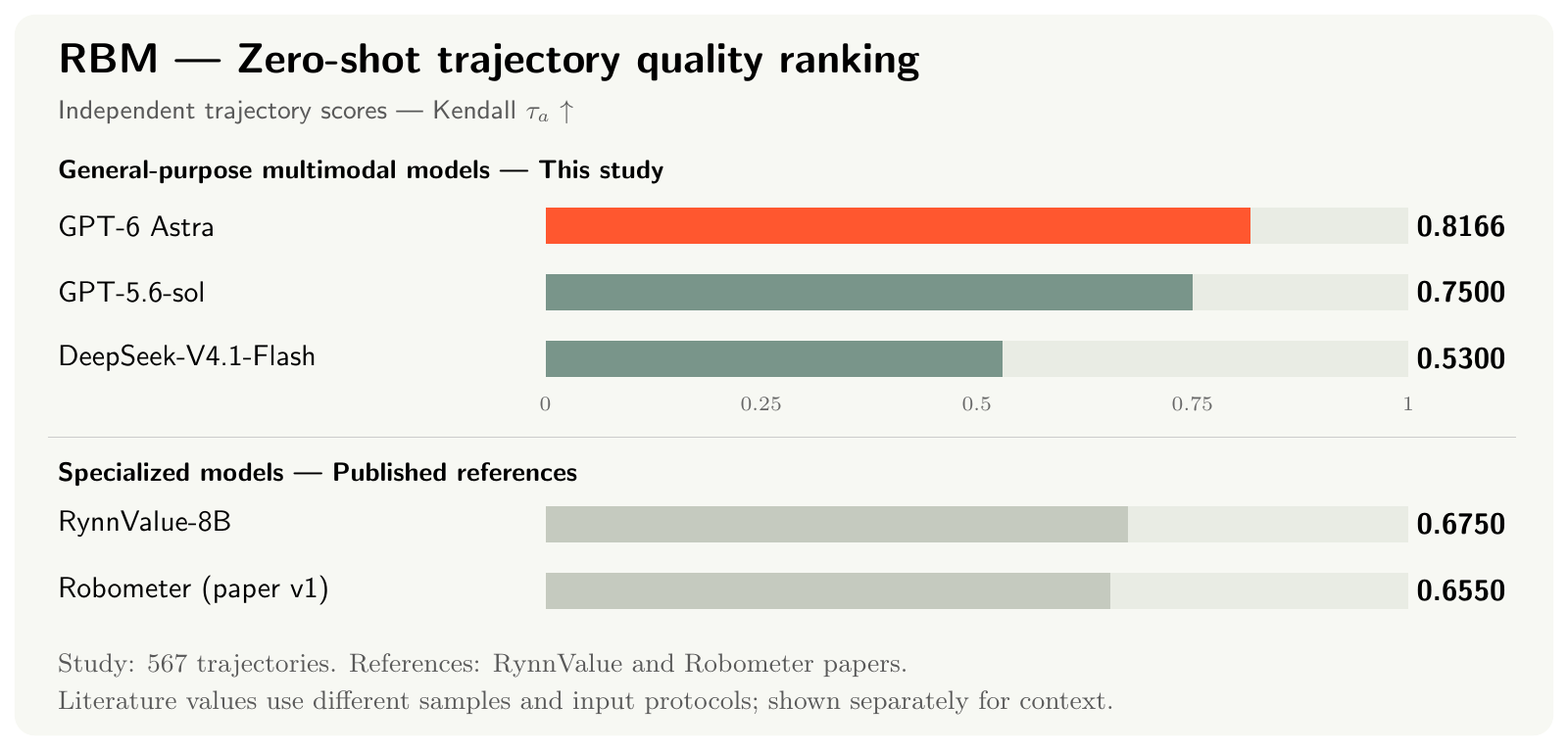
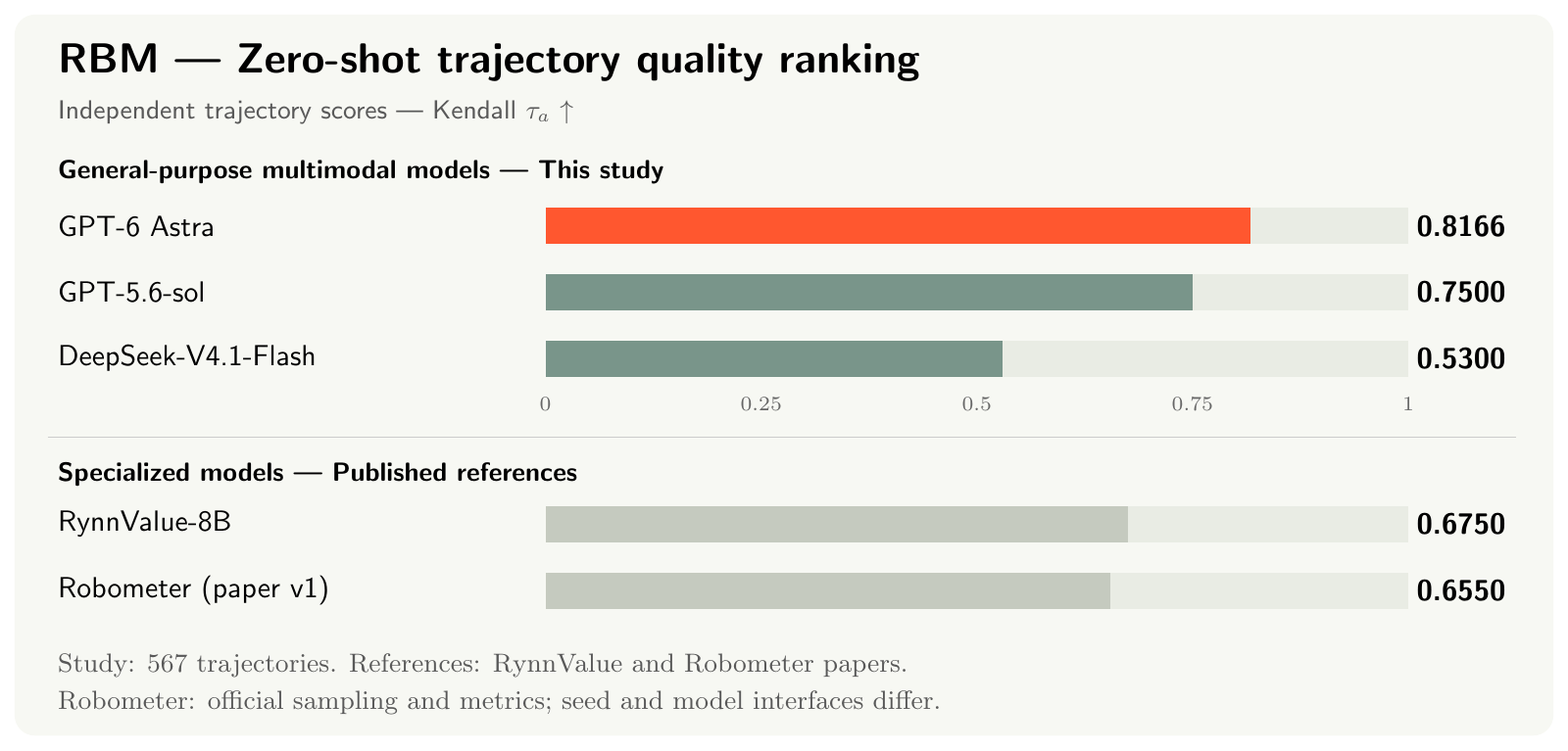
Clarify rubric-based evaluation and correct official protocol alignment

Changed region(s): [[0.0312, 0.8996, 0.7188, 0.9596]]

diff --git a/en.html b/en.html
@@ -232,7 +232,7 @@
 <p class="">
 <strong>Observation masking.</strong> On two existing RoboFail cases, we separately explore three visibility levels and two prompting conditions, making 12 new requests with one response per condition. We retain the original question and mask later observations. Partial inputs have no corresponding temporal ground truth and receive no accuracy score. This supplement is separate from the original 57-question evaluation and examines response sensitivity to visible information.</p>
 <p class="">
-<strong>Comparison scope.</strong> We distinguish directly evaluated configurations from published results. Literature values from Robometer, RynnValue, AHA, and other methods were not rerun on our samples and inputs; training, prompts, and aggregation may also differ. They provide context rather than a matched-protocol ranking. Chart tags [S], [P], [W], [R], and [A] denote this study, the Robometer paper, its website, RynnValue, and AHA, respectively. Versions and missing results are retained as recorded.</p>
+<strong>Result sources.</strong> Chart tags [S], [P], [W], [R], and [A] denote this study, the Robometer paper, its project website, RynnValue, and AHA. RBM ranking and different-quality preference follow official sampling and metric rules; Section 2.1.3 records seeds, model interfaces, and cited versions. RoboFail literature comparisons use different question sets, as described in Section 2.4.</p>
 <div id="positive-case-protocol">
 <p class="">
 <strong>Case comparisons.</strong> The four positive examples are selected post hoc for illustration, not to estimate overall error rates. Astra and DeepSeek receive identical tasks, trajectories, prompts, and input images without reference quality labels; preference cases retain the actual A/B order. Reasoning settings and compute budgets are unmatched: Astra uses low effort with a 512-token output limit, while DeepSeek uses max effort with a 32768-token limit. No swapped-order repeat or matched per-example Robometer output is available.</p>
@@ -321,7 +321,7 @@
 <button type="button" data-zoom aria-label="Zero-shot ranking of three general-purpose multimodal models and published specialized-model references">
 <img loading="lazy" src="assets/figures/01_ranking_zero_shot.png" alt="Zero-shot ranking of three general-purpose multimodal models and published specialized-model references" width="1600" height="767">
 </button>
-<figcaption>Figure 1. Zero-shot trajectory quality ranking. Top: three general-purpose multimodal models evaluated in this study. Bottom: published reference values for two specialized models. Higher Kendall τa is better; literature results retain their own protocols.<span class="zoom-label" aria-hidden="true">Enlarge ↗</span>
+<figcaption>Figure 1. Zero-shot trajectory quality ranking. Top: three general-purpose multimodal models evaluated in this study. Bottom: published reference values for two specialized models. Higher Kendall τa is better; published values follow the cited versions.<span class="zoom-label" aria-hidden="true">Enlarge ↗</span>
 </figcaption>
 </figure>
 <p>The following positive examples and error analyses examine how the models judge execution quality.</p>
@@ -637,9 +637,12 @@
 </details>
 </div>
 <!-- /positive-case -->
-<p>The next three choices disagree with the reference. To interpret them, we first need to ask: by what criteria should the model judge one execution to be better?</p>
-<h5 class="case-title">Astra–reference preference disagreements: a task goal is not a complete evaluation criterion</h5>
-<p>“Separate two cups” and “open the bin” specify goals without fully defining completion or how to compare executions. Whether an object must be released, whether it must remain upright, and how opening width should be weighed against final stability all involve evaluative priorities. Even agreement about the visual facts can yield different preferences under different criteria. Cup-separation and green-bin disagreements therefore do not directly establish deficient ranking ability in Astra; they also concern whether its evaluation criteria match the reference annotations. This is an issue of criteria underspecified by the task description, not verified disagreement among human annotators. State-recognition questions, such as whether a zipper is open, must be distinguished from these evaluative choices.</p>
+<p>The following cases examine the evidence and evaluation criteria underlying Astra’s disagreements with reference preferences.</p>
+<h5 class="case-title">Astra–reference preference disagreements: multidimensional evaluation and criterion alignment</h5>
+<p>Task descriptions usually specify a goal without fully defining execution quality. The cup-separation and green-bin disagreements involve several dimensions: whether the target state is reached, whether the object is released, whether the final state is stable, and how these requirements are prioritized. A single success label or overall preference compresses these dimensions into one judgment, making it difficult to distinguish disagreements about visual recognition, completion conditions, and trade-offs among quality dimensions. Such reference disagreements therefore do not directly establish deficient ranking ability in Astra.</p>
+<p>A more informative analysis would specify task-relevant criteria, annotate the observable evidence and degree of satisfaction for each, and then form an overall judgment using predefined requirements or weights. Cup separation could be assessed through “separated,” “released,” and “upright”; bin opening through “required opening reached” and “remains open without support.” This criterion-based assessment follows the idea of rubric rewards; Flora-Rewarder already provides an interface that outputs a score for each rubric step<sup class="citation">
+<a href="#ref-flora" aria-label="NVIDIA Flora-Rewarder">[14]</a>
+</sup>. It makes the basis of evaluation explicit, while the criteria and weights still depend on task requirements. We have not performed such criterion-level reannotation in this study.</p>
 <h5 class="case-title" id="separate-cups-case">Case Study: release or tipping when separating cups</h5>
 <p>In the task of separating the purple and red cups, Astra describes both executions as creating a large gap. One does not show release in the final frame and is labeled successful. The other clearly releases the purple cup, but the cup tips onto its side, and is labeled failed. Astra chooses the latter and explicitly mentions both release and tipping in its reason.</p>
 <div class="case-video-grid case-replay-grid" role="group" aria-labelledby="separate-cups-case" aria-describedby="separate-cups-case-note">
@@ -727,19 +730,17 @@
 </details>
 <h4 id="literature" data-toc>2.1.3 Comparison with prior work</h4>
 <p class="">
-<strong>Specialized and general-purpose models acquire behavioral evaluation capabilities through different routes.</strong> Robometer<sup class="citation">
+<strong>General-purpose multimodal models show competitive offline evaluation capability relative to specialized models.</strong> Under Robometer’s official sampling and metric rules, Astra achieves zero-shot ranking τa of 0.8166 and preference accuracy of 92.4%, above Robometer’s reported 0.655 and 82.5%<sup class="citation">
 <a href="#ref-robometer" aria-label="Robometer">[2]</a>
-</sup> combines frame-level progress supervision with trajectory-preference supervision; RynnValue<sup class="citation">
+</sup>; its ranking also exceeds RynnValue-8B’s reported 0.675<sup class="citation">
 <a href="#ref-rynnvalue" aria-label="RynnValue">[5]</a>
-</sup> learns value representations through temporal distance. We instead query general-purpose multimodal models directly with task descriptions and visual observations, without additional robot-reward training for this evaluation. Astra reaches ranking τa of 0.8166 and preference accuracy of 92.4%, numerically above Robometer’s reported 0.655 / 82.5%; its ranking also exceeds RynnValue-8B’s reported 0.675. These results show that existing general-purpose capabilities support strong offline execution-quality comparison, a capability not confined to specialized robot reward models.</p>
+</sup>. These results show that general-purpose models can effectively compare robot execution quality without additional task-specific training for this evaluation. This conclusion concerns offline evaluation, not the effectiveness of their scores as training rewards.</p>
 <p class="">
-<strong>Selecting the better of two executions and assigning comparable scores to separate trajectories impose different demands.</strong> Pairwise preference lets a model inspect both executions together and identify contrasts. Independent ranking requires a compatible scoring scale within a task even when trajectories are evaluated separately. Astra and GPT-5.6-sol differ by 1.7 percentage points in preference accuracy and 0.0666 in ranking τa. These gaps cannot be compared directly across metrics; the tasks probe direct comparison and independent scoring, respectively. The preceding inversions and ties also show that identifying an execution problem in an explanation does not ensure that scores preserve the quality order.</p>
-<p class="">
-<strong>Agreement with reference preferences depends on both discrimination and evaluation criteria.</strong> When a task leaves priorities such as release and stability unspecified, disagreement alone does not establish inability to rank. Strong trajectory ranking also does not imply calibrated progress values or a reward ready for policy optimization. Our evidence supports offline comparison by general-purpose models; it does not yet establish matched-sample superiority over published models or training gains. The next section asks whether this performance carries over from comparing executions to estimating how far one execution has progressed.</p>
+<strong>Ambiguity in evaluation criteria remains a problem for both model classes.</strong> Overall scores and preference labels do not fully distinguish goal attainment, execution constraints, and final-state quality. The preceding cases show that, when these criteria are unspecified, reference disagreement may include differences in evaluative standards rather than model limitations alone. Comparing general-purpose and specialized models therefore requires a more comprehensive evaluation framework: explicit task-relevant rubrics, assessment of each requirement, and a common aggregation rule. This would help distinguish perceptual errors, differences in execution quality, and trade-offs among criteria instead of attributing them from a single score.</p>
 <details class="research-detail">
-<summary>Protocols and statistical notes for literature comparisons</summary>
-<p class="">These literature values were not rerun on our samples. Our independent-ranking run includes 567 trajectories across 41 source–task groups; sample-by-sample alignment with the literature evaluations has not been established. External preference evaluation uses 500 different-quality pairs per OOD source; our study uses 1,192 fixed pairs with incompletely documented composition. Sample, input, and aggregation differences prevent a matched-protocol superiority claim.</p>
-<p class="">Repeat-call variance and confidence intervals are unavailable, so these differences are descriptive rather than significance claims.</p>
+<summary>Sampling, metrics, and cited versions</summary>
+<p class="">Ranking and different-quality preference evaluation reuse Robometer’s official sampling and metric rules with seed=44. Of 571 cached trajectories, four belong to tasks with only successful examples and are excluded by the official rule, leaving 567. Preference sampling uses up to 500 pairs per source, yielding 1,192 pairs. Both metrics use equal weighting across the six sources.</p>
+<p class="">The current official default seed is 42; the original paper’s historical manifests are unavailable, so this is not a sample-by-sample reproduction. Both sample eight frames uniformly. Astra returns prompted scores or A/B choices, whereas Robometer uses trained progress/preference heads, with different image encoding and internal processing. We cite Robometer v1’s τa=0.655; the corresponding v2 value is approximately 0.643.</p>
 </details>
 </section>
 <section id="progress-results" class="result-topic" data-toc>
@@ -2295,6 +2296,8 @@
 <a href="https://research.nvidia.com/labs/srl/projects/astranomy/" target="_blank" rel="noopener">Astranomy</a>. Empirical study of GPT-6 Astra as a native robot policy.</li>
 <li id="ref-embodied">
 <a href="https://arxiv.org/abs/2609.38537" target="_blank" rel="noopener">Systematically Exploring the Capabilities of GPT-6 Astra as Embodied Policies</a>. Cross-domain evaluation of direct control, policy cooperation, and feedback adaptation.</li>
+<li id="ref-flora">
+<a href="https://huggingface.co/nvidia/Flora-Rewarder" target="_blank" rel="noopener">NVIDIA. Flora-Rewarder</a>. Official model card; rubric scoring interface.</li>
 </ol>
 <p class="fine">The full RBM table also includes GVL, VLAC, RoboReward, ReWiND, RL-VLM-F, TOPReward, and Robo-Dopamine. Their numbers come from the identified Robometer paper or website records; this does not imply that each method’s original paper evaluated RBM.</p>
 <details class="research-detail">

diff --git a/index.html b/index.html
@@ -232,7 +232,7 @@
 <p class="">
 <strong>观测遮蔽。</strong>在两个既有 RoboFail 案例上，我们另做三种可见帧条件 × 两种提示条件的探索性实验，共 12 次新请求，每个条件仅一次。保留原问题并遮蔽后续观测；少帧条件没有对应的时间级真值，不计算准确率。这部分独立于原 57 问题评测，用于观察回答对可见信息的敏感性。</p>
 <p class="">
-<strong>比较范围。</strong>本研究直接评估的模型配置与文献结果分别标示。Robometer、RynnValue、AHA 等文献数值未在当前样本与输入上复测，训练、提示和聚合方式也可能不同，因此仅作为背景参照，不能据此作同协议排名。图中 [S] 表示本研究，[P]、[W]、[R]、[A] 分别对应 Robometer 论文、其网站、RynnValue 与 AHA；不同版本与缺失结果均按原记录保留。</p>
+<strong>结果来源。</strong>图中 [S] 为本研究，[P]、[W]、[R]、[A] 分别为 Robometer 论文、项目网站、RynnValue 与 AHA。RBM 排序与“不同质量”偏好沿用官方采样和指标规则；随机种子、模型接口与引用版本见 2.1.3。RoboFail 的文献对照使用不同问题集合，范围见 2.4。</p>
 <div id="positive-case-protocol">
 <p class="">
 <strong>案例对照。</strong>四组正例为评测后的说明性选例，不用于估计整体错误率。Astra 与 DeepSeek 使用相同任务、轨迹、提示和输入图像，不接收参考质量标签；偏好案例保留实际 A/B 顺序。两者推理配置与计算预算未匹配：Astra 为 low、输出上限 512 token，DeepSeek 为 max、上限 32768 token。未进行 A/B 交换复测，也没有匹配的 Robometer 逐条输出。</p>
@@ -322,7 +322,7 @@
 <button type="button" data-zoom aria-label="三种通用多模态模型的零样本排序结果与专用模型文献参照">
 <img loading="lazy" src="assets/figures/01_ranking_zero_shot.png" alt="三种通用多模态模型的零样本排序结果与专用模型文献参照" width="1600" height="767">
 </button>
-<figcaption>图 1. 零样本轨迹质量排序。上：本研究的三种通用多模态模型；下：两种专用模型的文献参照。Kendall τa 越高越好；文献结果沿用各自协议。<span class="zoom-label" aria-hidden="true">放大 ↗</span>
+<figcaption>图 1. 零样本轨迹质量排序。上：本研究的三种通用多模态模型；下：两种专用模型的文献参照。Kendall τa 越高越好；文献数值按引用版本列示。<span class="zoom-label" aria-hidden="true">放大 ↗</span>
 </figcaption>
 </figure>
 <p>下面结合正向案例与失败分析，观察模型如何判断执行质量。</p>
@@ -638,9 +638,12 @@
 </details>
 </div>
 <!-- /positive-case -->
-<p>下面三组选择与参考偏好不一致，但理解这些分歧，首先需要明确：我们究竟要求模型按什么标准评价“更好”？</p>
-<h5 class="case-title">Astra 与参考偏好的分歧：任务目标并不等于完整的评价标准</h5>
-<p>“分开两个杯子”或“打开垃圾桶”规定了目标，却没有完整规定怎样才算完成、不同执行应如何比较。是否必须释放物体、是否要求保持直立、开盖幅度与最终稳定性哪个更重要，都包含评价者对执行质量的价值取舍。即便对画面事实有相同理解，不同判据也可能产生不同偏好。因此，分杯与开绿桶这类分歧不能直接作为 Astra 排序能力不足的证据：它们还涉及模型采用的评价标准是否与参考标注一致。这里讨论的是判据未被任务描述充分指定的问题，并非已经验证了标注者之间的意见差异；拉链开合这样的状态辨识问题则需要另行区分。</p>
+<p>以下案例进一步分析 Astra 与参考偏好不一致时，判断依据与评价标准之间的关系。</p>
+<h5 class="case-title">Astra 与参考偏好的分歧：多维评价与判据对齐</h5>
+<p>任务描述通常只规定目标，并未完整定义执行质量。分杯与开绿桶案例中的分歧涉及多个维度：目标状态是否达到、物体是否释放、末态是否稳定，以及这些要求的优先级。单一成功标签或总体偏好将这些维度压缩为一个结论，难以区分分歧来自视觉辨识、完成条件，还是对不同质量维度的权衡。因此，这类参考不一致不能直接归结为 Astra 的排序能力不足。</p>
+<p>更合适的分析方式是显式列出与任务相关的评价准则，分别标注可观察证据与满足程度，再根据预先规定的必要条件或权重形成总体评价。例如，分杯可以分别检查“已分离”“已释放”“保持直立”，开桶可以检查“达到要求的开口”“撤去支撑后保持打开”。这种 rubric 式分项评价与 rubric reward 的思路一致；Flora-Rewarder 已提供按 rubric 步骤输出评分的接口<sup class="citation">
+<a href="#ref-flora" aria-label="NVIDIA Flora-Rewarder">[14]</a>
+</sup>。它使评价依据更明确，但各项要求及其权重仍需由任务需求确定；本文尚未开展分项重标注。</p>
 <h5 class="case-title" id="separate-cups-case">Case Study：分杯时，更看重释放还是侧倒</h5>
 <p>例如，在“分开紫杯与红杯”的任务中，Astra 认为两次执行都已把两杯拉开距离。一条在末帧仍未显示释放，参考标为成功；另一条明确释放紫杯、但杯子侧倒，参考标为失败。Astra 选择了后者，并在理由中同时写出了“已释放”和“侧倒”。</p>
 <div class="case-video-grid case-replay-grid" role="group" aria-labelledby="separate-cups-case" aria-describedby="separate-cups-case-note">
@@ -728,19 +731,17 @@
 </details>
 <h4 id="literature" data-toc>2.1.3 与已有工作的比较</h4>
 <p class="">
-<strong>专用模型与通用模型，通过不同方式获得行为评价能力。</strong>Robometer<sup class="citation">
+<strong>通用多模态模型已表现出可与专用模型竞争的离线评价能力。</strong>在沿用 Robometer 官方采样与指标规则的评测中，Astra 的零样本排序 τa 为 0.8166、偏好准确率为 92.4%，高于 Robometer 报告的 0.655 和 82.5%<sup class="citation">
 <a href="#ref-robometer" aria-label="Robometer">[2]</a>
-</sup>将帧级进度监督与轨迹偏好监督结合；RynnValue<sup class="citation">
+</sup>；排序结果也高于 RynnValue-8B 的 0.675<sup class="citation">
 <a href="#ref-rynnvalue" aria-label="RynnValue">[5]</a>
-</sup>通过时间距离学习构建价值表示。本文则直接调用通用多模态模型，根据任务描述与视觉观测进行零样本评价，没有为本次评测追加机器人奖励训练。Astra 的排序 τa 为 0.8166、偏好准确率为 92.4%，数值上高于 Robometer 报告的 0.655 / 82.5%，排序也高于 RynnValue-8B 的 0.675。这表明，通用模型已有的能力足以支持较强的离线执行质量比较，而这种能力并不只存在于专门训练的机器人奖励模型中。</p>
+</sup>。这些结果说明，通用模型在不追加本次任务专项训练的条件下，已能有效比较机器人执行质量。这里的结论针对离线评价，不等同于训练奖励的有效性。</p>
 <p class="">
-<strong>“能选出更好的一条”与“能对每条轨迹给出可比较的分数”是不同要求。</strong>成对偏好允许模型同时观察两次执行并寻找差异；独立排序则要求分开评价时仍能在同一任务内保持相容的评分尺度。Astra 与 GPT-5.6-sol 的两项差值分别为 1.7 个百分点和 0.0666 τa；两种指标不能直接比较差值大小，但它们分别检验了直接比较与独立评分的一致性。前述逆序与平分案例也说明，解释中识别出执行问题，并不保证分数准确保留质量次序。</p>
-<p class="">
-<strong>与参考偏好一致，既取决于辨别能力，也取决于评价标准。</strong>当任务没有说明释放、稳定性等要求的优先级时，参考不一致不能单独证明模型不会排序；而即使轨迹排序较强，也不意味着进度数值已经校准，或可以直接作为策略优化的奖励。本研究支持的是通用模型的离线比较能力，尚未完成文献样本对齐，也未验证训练收益。下一节进一步考察：从比较两段执行，转向判断一段执行推进了多少时，模型表现是否仍然成立。</p>
+<strong>评价标准的模糊性仍是两类模型都需要面对的问题。</strong>总体分数或偏好标签不能完整表达目标完成、操作约束与末态质量之间的区别。前述案例表明，当这些判据未被明确给出时，与参考不一致可能包含标准上的分歧，不能全部解释为模型能力不足。因此，对通用模型和专用模型的比较都需要更全面的评价体系：显式定义任务相关的 rubric，分别检查各项要求，再按统一规则汇总。这样的分析有助于区分感知错误、执行质量差异和判据权衡，而不是仅凭一个总分归因。</p>
 <details class="research-detail">
-<summary>文献比较的协议与统计说明</summary>
-<p class="">这些文献值没有在本研究的样本上复测。本研究的独立排序运行包含 567 条轨迹、41 个来源–任务组，双方的逐条样本尚未完成对齐；外部偏好评测在每个 OOD 来源使用 500 组不同质量轨迹对，本研究则使用组成未完全记录的 1,192 组固定对。样本、输入与聚合方式未对齐，不能据此得出统一协议下的领先结论。</p>
-<p class="">当前没有重复调用方差或置信区间，因此上述差异为描述性比较，不作统计显著性解释。</p>
+<summary>采样、指标与引用版本</summary>
+<p class="">排序与“不同质量”偏好评测复用 Robometer 官方采样和指标规则，使用 seed=44。571 条缓存轨迹中，4 条属于仅含成功样本的任务，按官方规则排除后得到 567 条；偏好配对按每来源最多 500 对采样，共 1,192 对。两项指标均按六来源等权汇总。</p>
+<p class="">当前官方默认 seed 为 42，原论文历史清单不可得，故不称为逐条样本复现。双方均匀取 8 帧；Astra 通过提示词输出评分或 A/B，Robometer 使用训练后的 progress/preference head，图像编码与内部处理不同。正文引用 Robometer v1 的 τa=0.655；v2 对应值约为 0.643。</p>
 </details>
 </section>
 <section id="progress-results" class="result-topic" data-toc>
@@ -2296,6 +2297,8 @@
 <a href="https://research.nvidia.com/labs/srl/projects/astranomy/" target="_blank" rel="noopener">Astranomy</a>. GPT-6 Astra 作为原生机器人策略的实证研究。</li>
 <li id="ref-embodied">
 <a href="https://arxiv.org/abs/2609.38537" target="_blank" rel="noopener">Systematically Exploring the Capabilities of GPT-6 Astra as Embodied Policies</a>. 直接控制、策略协作和反馈适应的跨领域评估。</li>
+<li id="ref-flora">
+<a href="https://huggingface.co/nvidia/Flora-Rewarder" target="_blank" rel="noopener">NVIDIA. Flora-Rewarder</a>. 官方模型说明，rubric 分项评分接口。</li>
 </ol>
 <p class="fine">完整 RBM 表还列出 GVL、VLAC、RoboReward、ReWiND、RL-VLM-F、TOPReward 与 Robo-Dopamine。其数值来自表内注明的 Robometer 论文或网站记录，不表示这些方法的原论文均评估了 RBM。</p>
 <details class="research-detail">

diff --git a/scripts/build_blog.py b/scripts/build_blog.py
@@ -30,6 +30,7 @@ REFERENCE_LABELS = {
     'unexpected': (11, 'An Unexpected Robot Policy'),
     'astranomy': (12, 'Astranomy'),
     'embodied': (13, 'Systematically Exploring GPT-6 Astra as Embodied Policies'),
+    'flora': (14, 'NVIDIA Flora-Rewarder'),
 }
 
 def t(zh, en):
@@ -159,7 +160,7 @@ def study_design():
     ]) + '</ul>'
     protocol_details += p('直接偏好没有 ICL 结果。各条件的上下文长度与计算预算未匹配；RoboFail 虽请求相同模型名与推理配置，返回后端标识仍存在差异，快照一致性尚未确认，因此不能把零样本与五示例的差异全部归因于示例。', 'No ICL result is available for direct preference. Context length and compute budgets are not matched. On RoboFail, returned backend identifiers differ despite the same requested model name and reasoning configuration; snapshot consistency is unconfirmed, so the zero-shot versus five-example difference cannot be attributed entirely to examples.', 'method-note')
     protocol_details += p('<strong>观测遮蔽。</strong>在两个既有 RoboFail 案例上，我们另做三种可见帧条件 × 两种提示条件的探索性实验，共 12 次新请求，每个条件仅一次。保留原问题并遮蔽后续观测；少帧条件没有对应的时间级真值，不计算准确率。这部分独立于原 57 问题评测，用于观察回答对可见信息的敏感性。', '<strong>Observation masking.</strong> On two existing RoboFail cases, we separately explore three visibility levels and two prompting conditions, making 12 new requests with one response per condition. We retain the original question and mask later observations. Partial inputs have no corresponding temporal ground truth and receive no accuracy score. This supplement is separate from the original 57-question evaluation and examines response sensitivity to visible information.')
-    protocol_details += p('<strong>比较范围。</strong>本研究直接评估的模型配置与文献结果分别标示。Robometer、RynnValue、AHA 等文献数值未在当前样本与输入上复测，训练、提示和聚合方式也可能不同，因此仅作为背景参照，不能据此作同协议排名。图中 [S] 表示本研究，[P]、[W]、[R]、[A] 分别对应 Robometer 论文、其网站、RynnValue 与 AHA；不同版本与缺失结果均按原记录保留。', '<strong>Comparison scope.</strong> We distinguish directly evaluated configurations from published results. Literature values from Robometer, RynnValue, AHA, and other methods were not rerun on our samples and inputs; training, prompts, and aggregation may also differ. They provide context rather than a matched-protocol ranking. Chart tags [S], [P], [W], [R], and [A] denote this study, the Robometer paper, its website, RynnValue, and AHA, respectively. Versions and missing results are retained as recorded.')
+    protocol_details += p('<strong>结果来源。</strong>图中 [S] 为本研究，[P]、[W]、[R]、[A] 分别为 Robometer 论文、项目网站、RynnValue 与 AHA。RBM 排序与“不同质量”偏好沿用官方采样和指标规则；随机种子、模型接口与引用版本见 2.1.3。RoboFail 的文献对照使用不同问题集合，范围见 2.4。', '<strong>Result sources.</strong> Chart tags [S], [P], [W], [R], and [A] denote this study, the Robometer paper, its project website, RynnValue, and AHA. RBM ranking and different-quality preference follow official sampling and metric rules; Section 2.1.3 records seeds, model interfaces, and cited versions. RoboFail literature comparisons use different question sets, as described in Section 2.4.')
 
     protocol_details += '<div id="positive-case-protocol">' + p('<strong>案例对照。</strong>四组正例为评测后的说明性选例，不用于估计整体错误率。Astra 与 DeepSeek 使用相同任务、轨迹、提示和输入图像，不接收参考质量标签；偏好案例保留实际 A/B 顺序。两者推理配置与计算预算未匹配：Astra 为 low、输出上限 512 token，DeepSeek 为 max、上限 32768 token。未进行 A/B 交换复测，也没有匹配的 Robometer 逐条输出。', '<strong>Case comparisons.</strong> The four positive examples are selected post hoc for illustration, not to estimate overall error rates. Astra and DeepSeek receive identical tasks, trajectories, prompts, and input images without reference quality labels; preference cases retain the actual A/B order. Reasoning settings and compute budgets are unmatched: Astra uses low effort with a 512-token output limit, while DeepSeek uses max effort with a 32768-token limit. No swapped-order repeat or matched per-example Robometer output is available.') + '</div>'
 
@@ -211,12 +212,11 @@ def article():
     body += h3('preference-results', '2.1.2 直接偏好判断', '2.1.2 Direct preference')
     body += confirmed('preference')
     body += h3('literature', '2.1.3 与已有工作的比较', '2.1.3 Comparison with prior work')
-    body += p('<strong>专用模型与通用模型，通过不同方式获得行为评价能力。</strong>Robometer[[cite:robometer]]将帧级进度监督与轨迹偏好监督结合；RynnValue[[cite:rynnvalue]]通过时间距离学习构建价值表示。本文则直接调用通用多模态模型，根据任务描述与视觉观测进行零样本评价，没有为本次评测追加机器人奖励训练。Astra 的排序 τa 为 0.8166、偏好准确率为 92.4%，数值上高于 Robometer 报告的 0.655 / 82.5%，排序也高于 RynnValue-8B 的 0.675。这表明，通用模型已有的能力足以支持较强的离线执行质量比较，而这种能力并不只存在于专门训练的机器人奖励模型中。', '<strong>Specialized and general-purpose models acquire behavioral evaluation capabilities through different routes.</strong> Robometer[[cite:robometer]] combines frame-level progress supervision with trajectory-preference supervision; RynnValue[[cite:rynnvalue]] learns value representations through temporal distance. We instead query general-purpose multimodal models directly with task descriptions and visual observations, without additional robot-reward training for this evaluation. Astra reaches ranking τa of 0.8166 and preference accuracy of 92.4%, numerically above Robometer’s reported 0.655 / 82.5%; its ranking also exceeds RynnValue-8B’s reported 0.675. These results show that existing general-purpose capabilities support strong offline execution-quality comparison, a capability not confined to specialized robot reward models.')
-    body += p('<strong>“能选出更好的一条”与“能对每条轨迹给出可比较的分数”是不同要求。</strong>成对偏好允许模型同时观察两次执行并寻找差异；独立排序则要求分开评价时仍能在同一任务内保持相容的评分尺度。Astra 与 GPT-5.6-sol 的两项差值分别为 1.7 个百分点和 0.0666 τa；两种指标不能直接比较差值大小，但它们分别检验了直接比较与独立评分的一致性。前述逆序与平分案例也说明，解释中识别出执行问题，并不保证分数准确保留质量次序。', '<strong>Selecting the better of two executions and assigning comparable scores to separate trajectories impose different demands.</strong> Pairwise preference lets a model inspect both executions together and identify contrasts. Independent ranking requires a compatible scoring scale within a task even when trajectories are evaluated separately. Astra and GPT-5.6-sol differ by 1.7 percentage points in preference accuracy and 0.0666 in ranking τa. These gaps cannot be compared directly across metrics; the tasks probe direct comparison and independent scoring, respectively. The preceding inversions and ties also show that identifying an execution problem in an explanation does not ensure that scores preserve the quality order.')
-    body += p('<strong>与参考偏好一致，既取决于辨别能力，也取决于评价标准。</strong>当任务没有说明释放、稳定性等要求的优先级时，参考不一致不能单独证明模型不会排序；而即使轨迹排序较强，也不意味着进度数值已经校准，或可以直接作为策略优化的奖励。本研究支持的是通用模型的离线比较能力，尚未完成文献样本对齐，也未验证训练收益。下一节进一步考察：从比较两段执行，转向判断一段执行推进了多少时，模型表现是否仍然成立。', '<strong>Agreement with reference preferences depends on both discrimination and evaluation criteria.</strong> When a task leaves priorities such as release and stability unspecified, disagreement alone does not establish inability to rank. Strong trajectory ranking also does not imply calibrated progress values or a reward ready for policy optimization. Our evidence supports offline comparison by general-purpose models; it does not yet establish matched-sample superiority over published models or training gains. The next section asks whether this performance carries over from comparing executions to estimating how far one execution has progressed.')
-    comparison_details = p('这些文献值没有在本研究的样本上复测。本研究的独立排序运行包含 567 条轨迹、41 个来源–任务组，双方的逐条样本尚未完成对齐；外部偏好评测在每个 OOD 来源使用 500 组不同质量轨迹对，本研究则使用组成未完全记录的 1,192 组固定对。样本、输入与聚合方式未对齐，不能据此得出统一协议下的领先结论。', 'These literature values were not rerun on our samples. Our independent-ranking run includes 567 trajectories across 41 source–task groups; sample-by-sample alignment with the literature evaluations has not been established. External preference evaluation uses 500 different-quality pairs per OOD source; our study uses 1,192 fixed pairs with incompletely documented composition. Sample, input, and aggregation differences prevent a matched-protocol superiority claim.')
-    comparison_details += p('当前没有重复调用方差或置信区间，因此上述差异为描述性比较，不作统计显著性解释。', 'Repeat-call variance and confidence intervals are unavailable, so these differences are descriptive rather than significance claims.')
-    body += detail('文献比较的协议与统计说明', 'Protocols and statistical notes for literature comparisons', comparison_details)
+    body += p('<strong>通用多模态模型已表现出可与专用模型竞争的离线评价能力。</strong>在沿用 Robometer 官方采样与指标规则的评测中，Astra 的零样本排序 τa 为 0.8166、偏好准确率为 92.4%，高于 Robometer 报告的 0.655 和 82.5%[[cite:robometer]]；排序结果也高于 RynnValue-8B 的 0.675[[cite:rynnvalue]]。这些结果说明，通用模型在不追加本次任务专项训练的条件下，已能有效比较机器人执行质量。这里的结论针对离线评价，不等同于训练奖励的有效性。', '<strong>General-purpose multimodal models show competitive offline evaluation capability relative to specialized models.</strong> Under Robometer’s official sampling and metric rules, Astra achieves zero-shot ranking τa of 0.8166 and preference accuracy of 92.4%, above Robometer’s reported 0.655 and 82.5%[[cite:robometer]]; its ranking also exceeds RynnValue-8B’s reported 0.675[[cite:rynnvalue]]. These results show that general-purpose models can effectively compare robot execution quality without additional task-specific training for this evaluation. This conclusion concerns offline evaluation, not the effectiveness of their scores as training rewards.')
+    body += p('<strong>评价标准的模糊性仍是两类模型都需要面对的问题。</strong>总体分数或偏好标签不能完整表达目标完成、操作约束与末态质量之间的区别。前述案例表明，当这些判据未被明确给出时，与参考不一致可能包含标准上的分歧，不能全部解释为模型能力不足。因此，对通用模型和专用模型的比较都需要更全面的评价体系：显式定义任务相关的 rubric，分别检查各项要求，再按统一规则汇总。这样的分析有助于区分感知错误、执行质量差异和判据权衡，而不是仅凭一个总分归因。', '<strong>Ambiguity in evaluation criteria remains a problem for both model classes.</strong> Overall scores and preference labels do not fully distinguish goal attainment, execution constraints, and final-state quality. The preceding cases show that, when these criteria are unspecified, reference disagreement may include differences in evaluative standards rather than model limitations alone. Comparing general-purpose and specialized models therefore requires a more comprehensive evaluation framework: explicit task-relevant rubrics, assessment of each requirement, and a common aggregation rule. This would help distinguish perceptual errors, differences in execution quality, and trade-offs among criteria instead of attributing them from a single score.')
+    comparison_details = p('排序与“不同质量”偏好评测复用 Robometer 官方采样和指标规则，使用 seed=44。571 条缓存轨迹中，4 条属于仅含成功样本的任务，按官方规则排除后得到 567 条；偏好配对按每来源最多 500 对采样，共 1,192 对。两项指标均按六来源等权汇总。', 'Ranking and different-quality preference evaluation reuse Robometer’s official sampling and metric rules with seed=44. Of 571 cached trajectories, four belong to tasks with only successful examples and are excluded by the official rule, leaving 567. Preference sampling uses up to 500 pairs per source, yielding 1,192 pairs. Both metrics use equal weighting across the six sources.')
+    comparison_details += p('当前官方默认 seed 为 42，原论文历史清单不可得，故不称为逐条样本复现。双方均匀取 8 帧；Astra 通过提示词输出评分或 A/B，Robometer 使用训练后的 progress/preference head，图像编码与内部处理不同。正文引用 Robometer v1 的 τa=0.655；v2 对应值约为 0.643。', 'The current official default seed is 42; the original paper’s historical manifests are unavailable, so this is not a sample-by-sample reproduction. Both sample eight frames uniformly. Astra returns prompted scores or A/B choices, whereas Robometer uses trained progress/preference heads, with different image encoding and internal processing. We cite Robometer v1’s τa=0.655; the corresponding v2 value is approximately 0.643.')
+    body += detail('采样、指标与引用版本', 'Sampling, metrics, and cited versions', comparison_details)
     result_topics += result_section('quality-results', '2.1 轨迹质量与偏好', '2.1 Trajectory quality and preference', re.sub(r'<(/?)h4\b', r'<\1h5', body))
 
     # Preserve prior fragment URLs within the consolidated Results section.
@@ -314,6 +314,7 @@ def resources():
         ('unexpected', 'https://arxiv.org/abs/2609.24170', 'An Unexpected Robot Policy', t('GPT-6 Astra 的 RoboDojo action-policy 评估。', 'RoboDojo evaluation of GPT-6 Astra as an action policy.')),
         ('astranomy', 'https://research.nvidia.com/labs/srl/projects/astranomy/', 'Astranomy', t('GPT-6 Astra 作为原生机器人策略的实证研究。', 'Empirical study of GPT-6 Astra as a native robot policy.')),
         ('embodied', 'https://arxiv.org/abs/2609.38537', 'Systematically Exploring the Capabilities of GPT-6 Astra as Embodied Policies', t('直接控制、策略协作和反馈适应的跨领域评估。', 'Cross-domain evaluation of direct control, policy cooperation, and feedback adaptation.')),
+        ('flora', 'https://huggingface.co/nvidia/Flora-Rewarder', 'NVIDIA. Flora-Rewarder', t('官方模型说明，rubric 分项评分接口。', 'Official model card; rubric scoring interface.')),
     ]
     body += '<ol class="references">' + ''.join(f'<li id="ref-{key}"><a href="{url}" target="_blank" rel="noopener">{name}</a>. {note}</li>' for key, url, name, note in refs) + '</ol>'
     body += p('完整 RBM 表还列出 GVL、VLAC、RoboReward、ReWiND、RL-VLM-F、TOPReward 与 Robo-Dopamine。其数值来自表内注明的 Robometer 论文或网站记录，不表示这些方法的原论文均评估了 RBM。', 'The full RBM table also includes GVL, VLAC, RoboReward, ReWiND, RL-VLM-F, TOPReward, and Robo-Dopamine. Their numbers come from the identified Robometer paper or website records; this does not imply that each method’s original paper evaluated RBM.', 'fine')

diff --git a/assets/figures/source/01_ranking_zero_shot.tex b/assets/figures/source/01_ranking_zero_shot.tex
@@ -42,6 +42,6 @@
 \fill[mutedbar] (6,-5.17) rectangle (12.812000,-4.73);
 \node[anchor=east,font=\sffamily\bfseries] at (17.7,-4.95) {0.6550};
 \node[anchor=west,text=black!65,font=\small] at (0,-5.85) {Study: 567 trajectories. References: RynnValue and Robometer papers.};
-\node[anchor=west,text=black!65,font=\small] at (0,-6.3) {Literature values use different samples and input protocols; shown separately for context.};
+\node[anchor=west,text=black!65,font=\small] at (0,-6.3) {Robometer: official sampling and metrics; seed and model interfaces differ.};
 \end{tikzpicture}
 \end{document}
